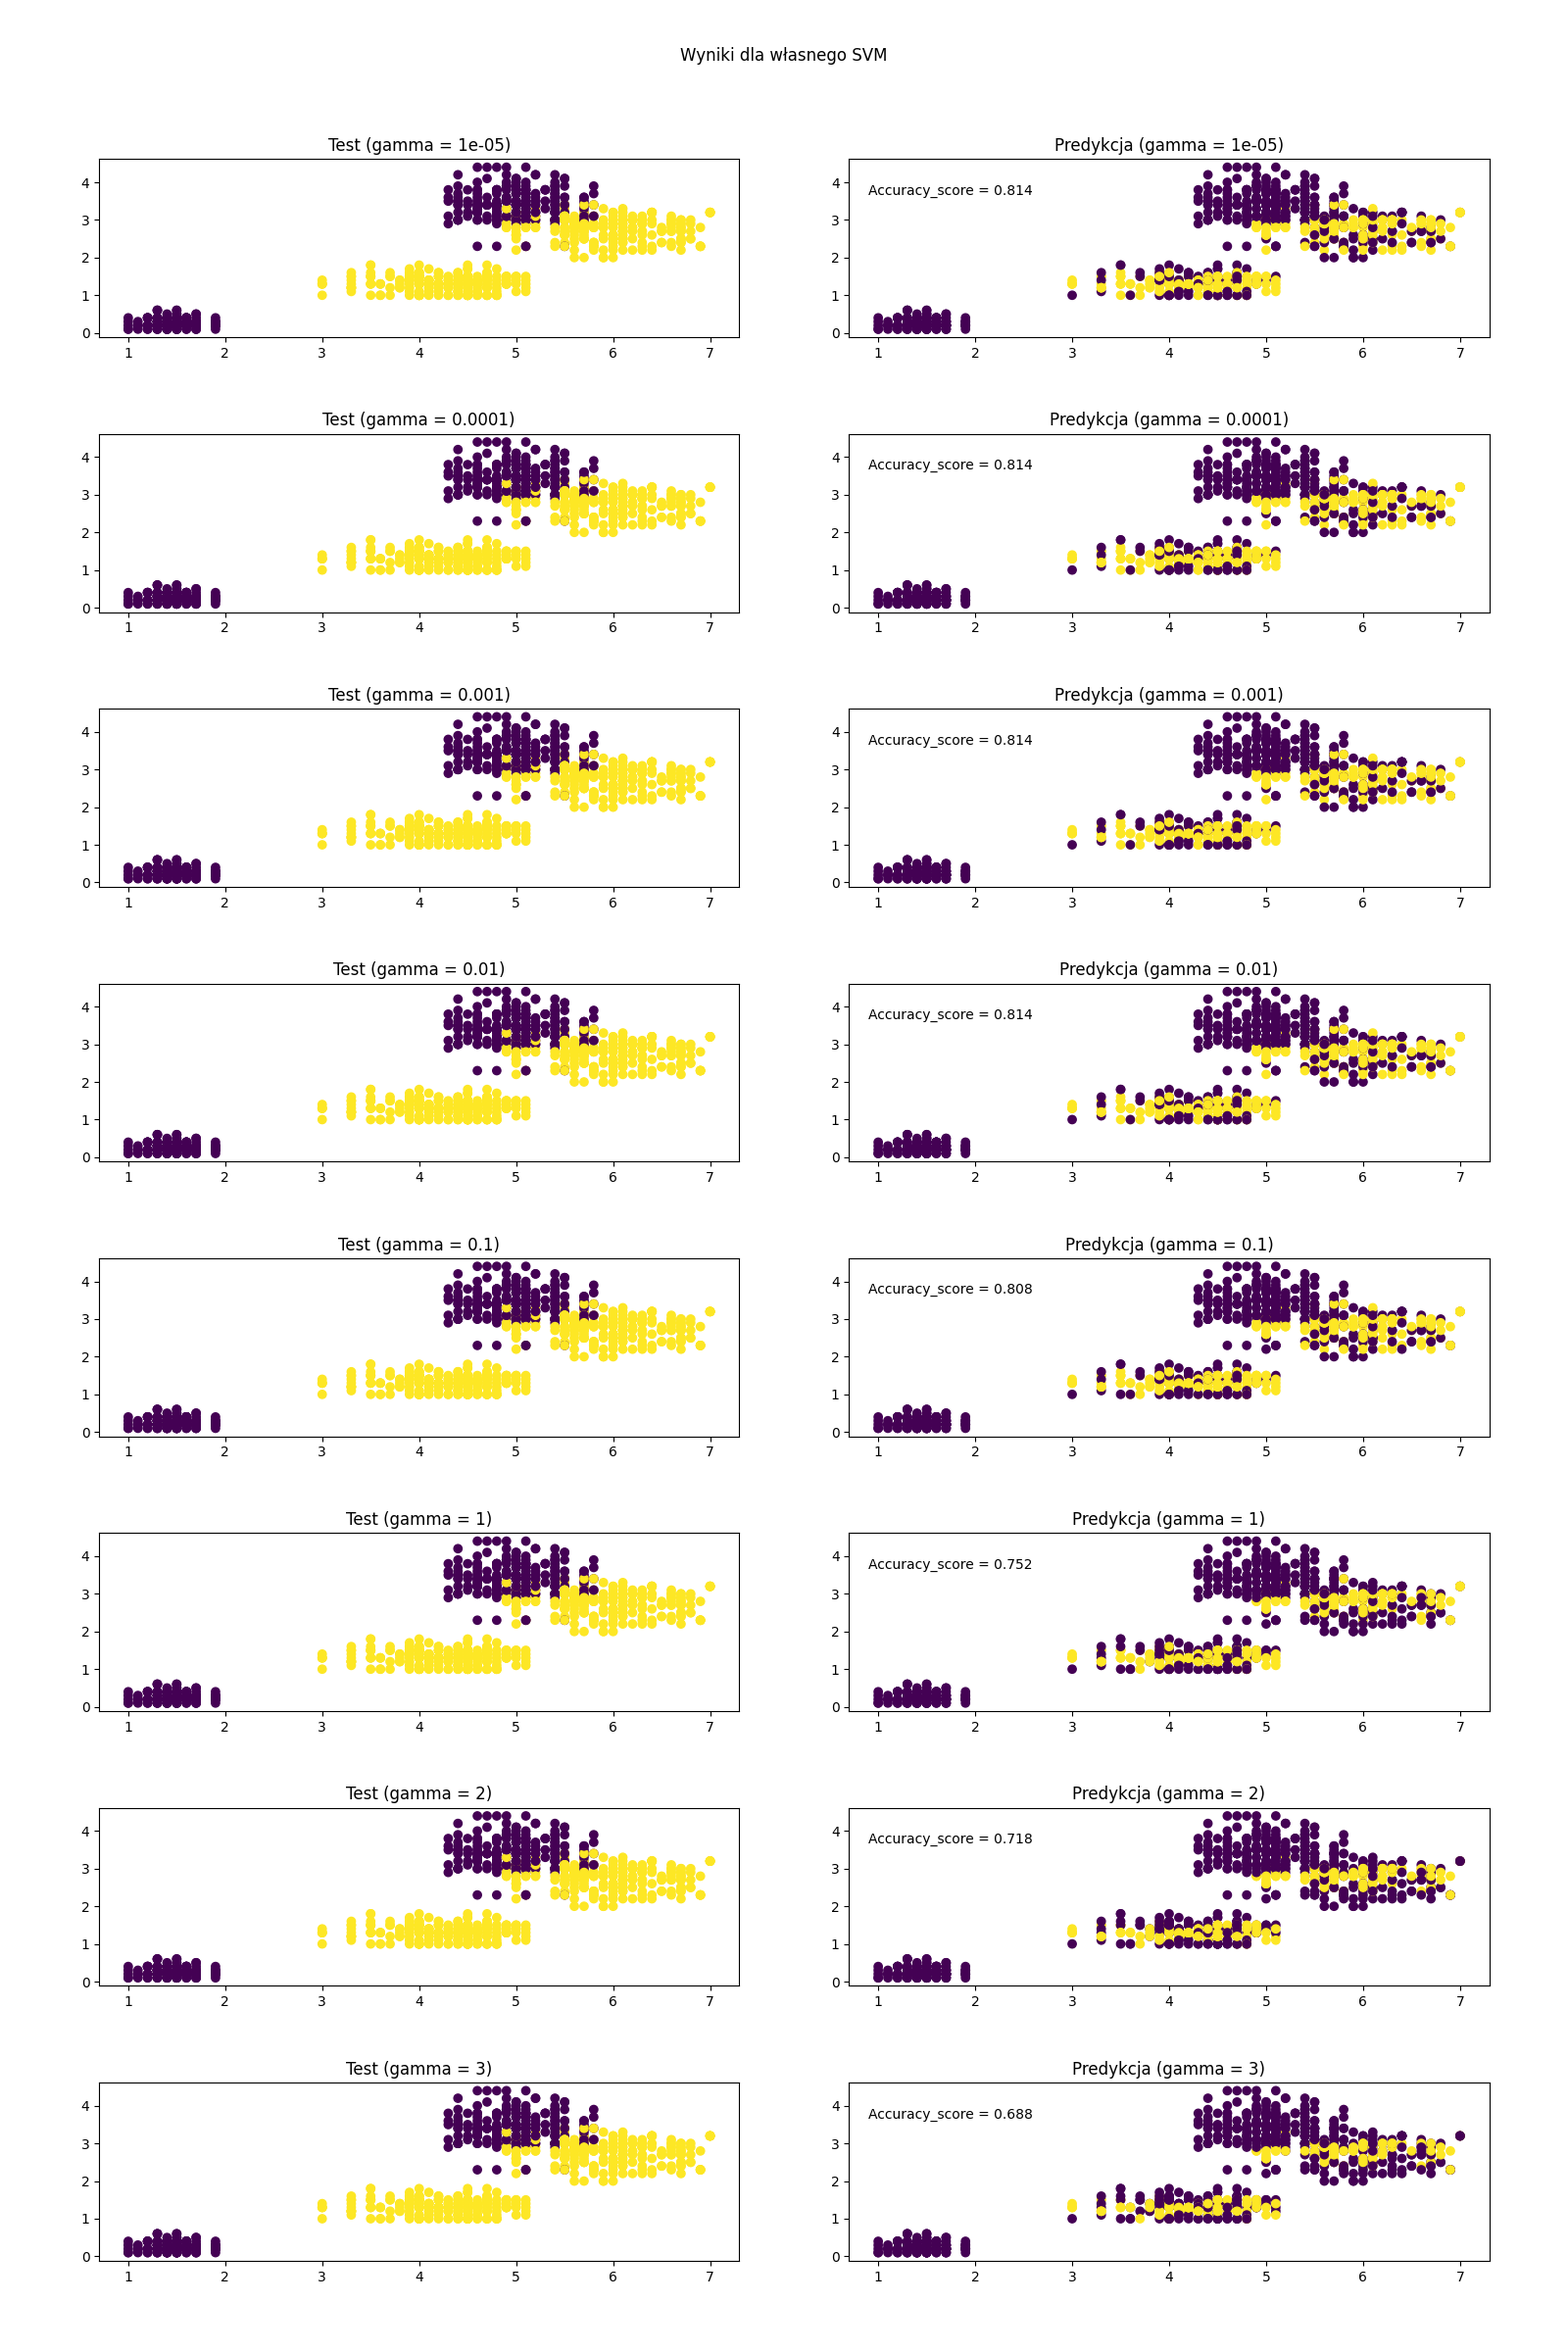
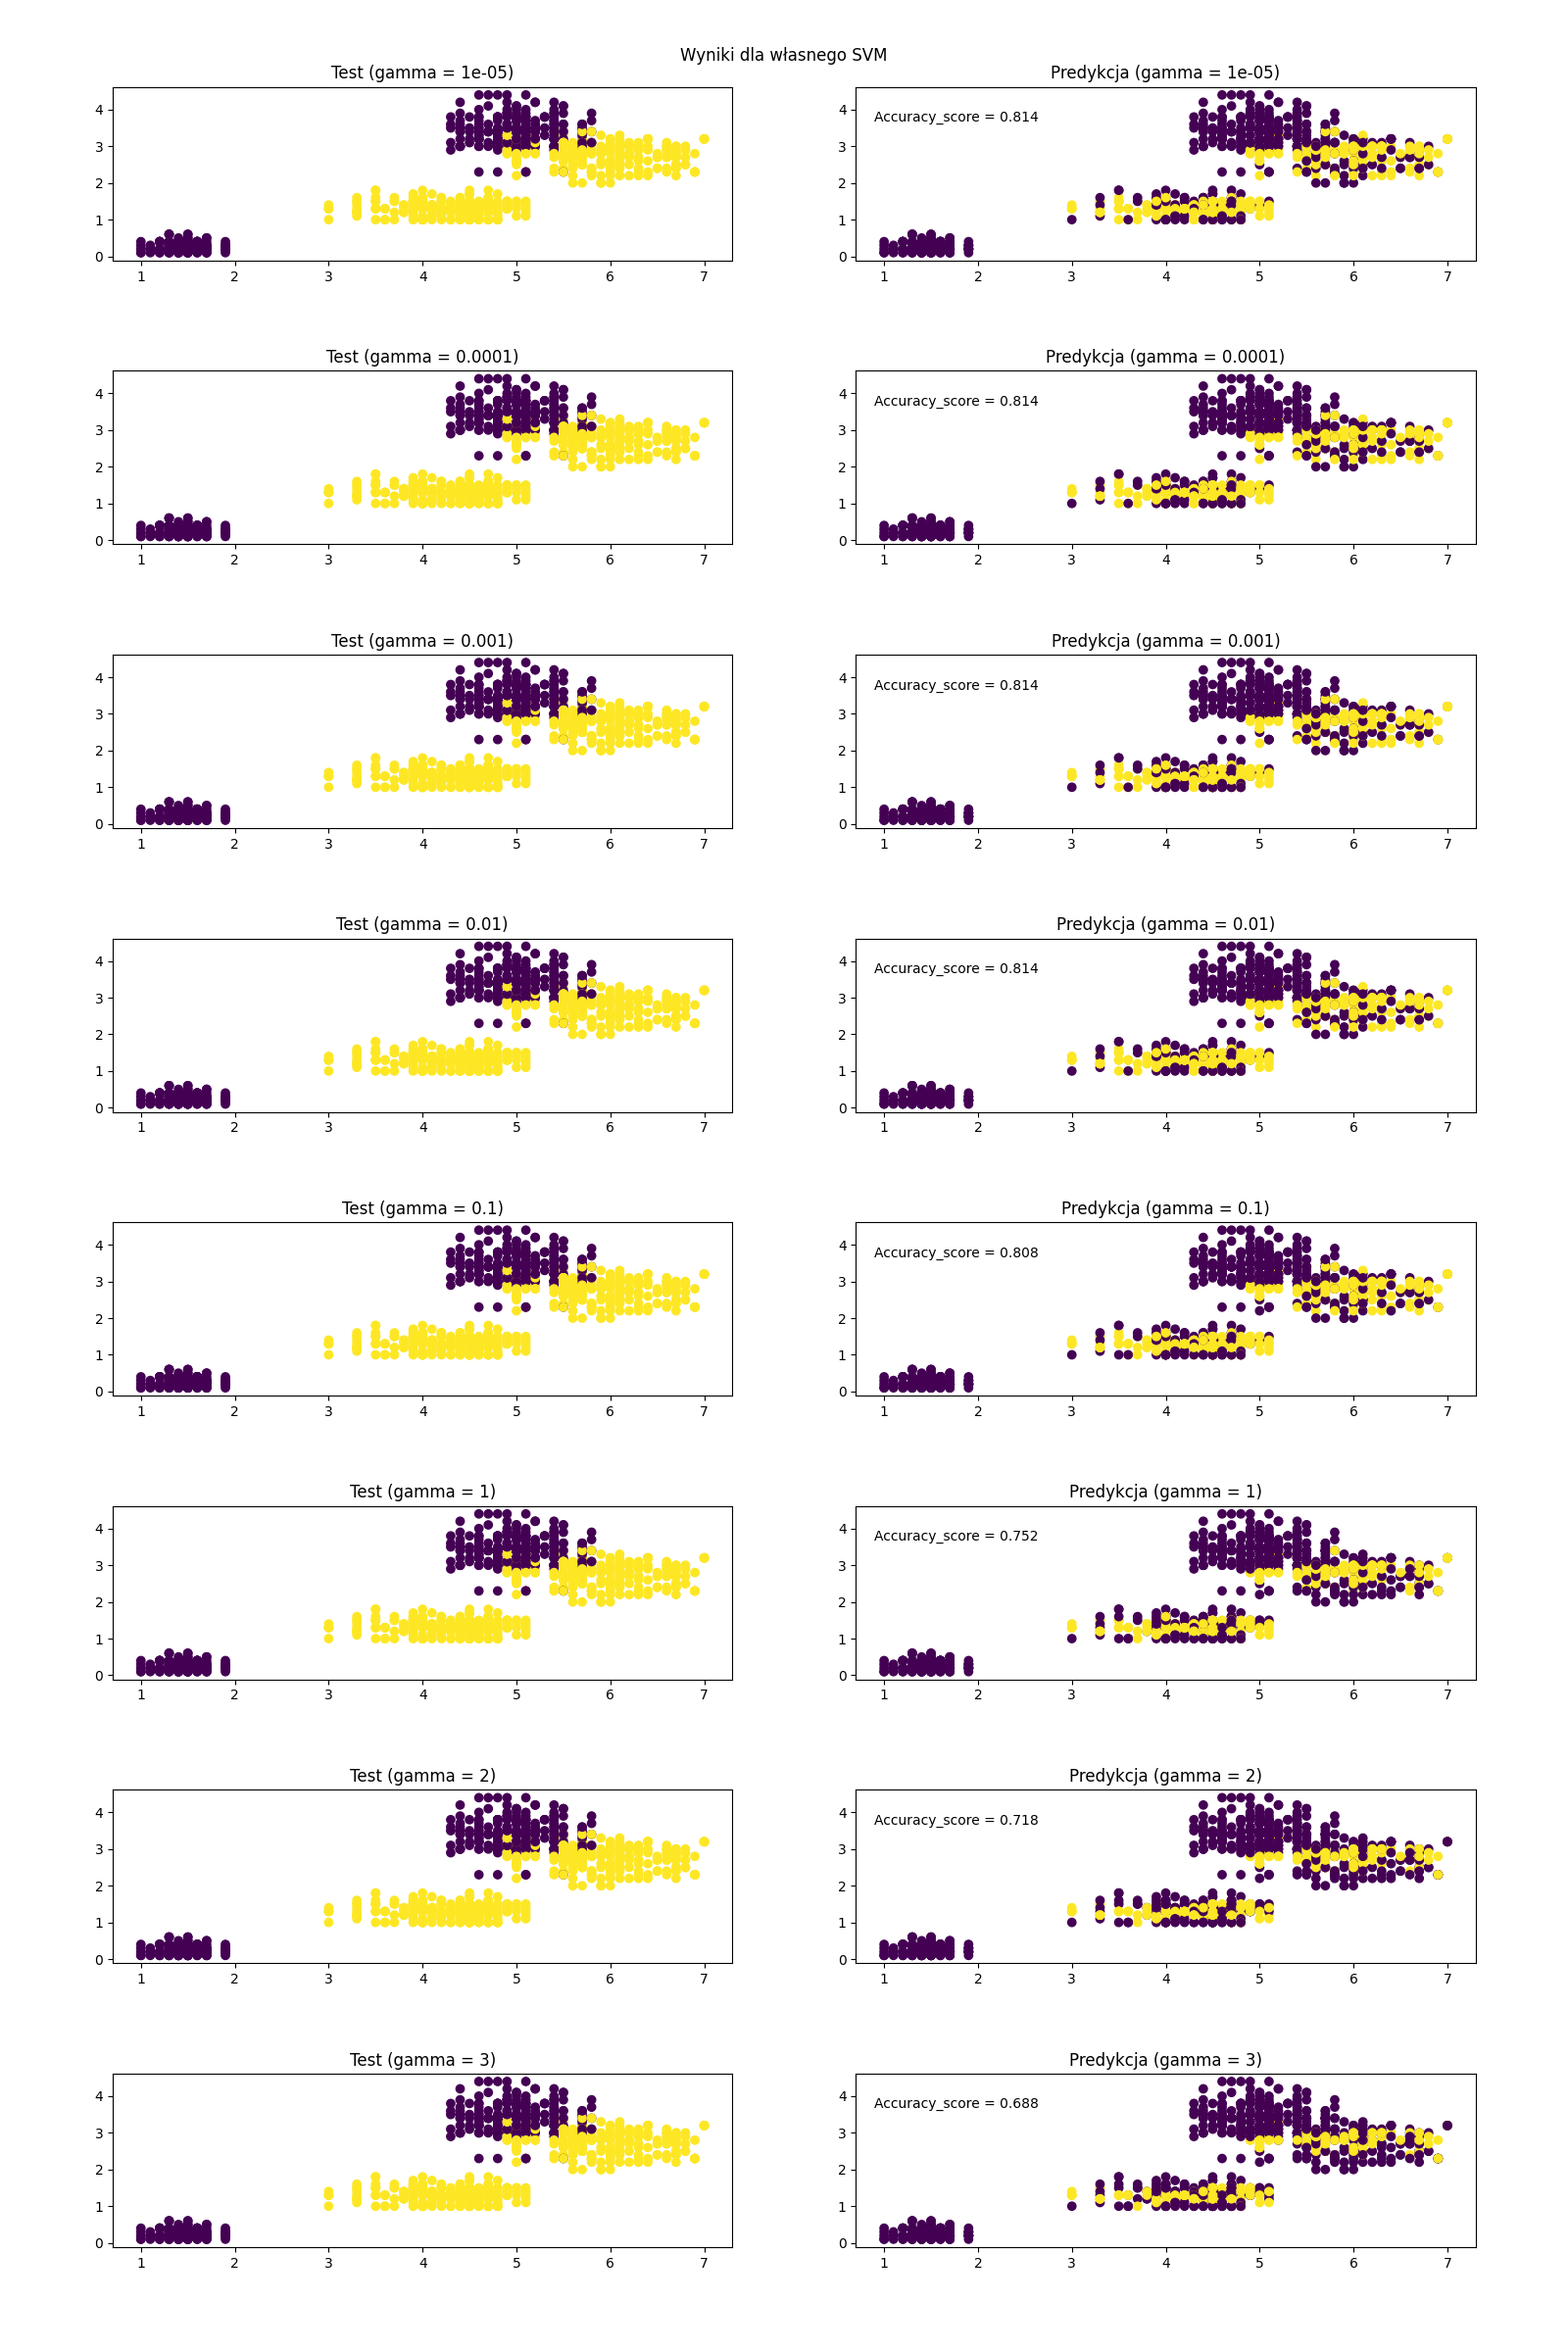
Testowanie modelu na zbiorze irysów + walidacja + zapis wyników do pliku

diff --git a/main.py b/main.py
@@ -104,8 +104,9 @@ wynikiWlasny = np.zeros(shape=[len(gammas), rskf.get_n_splits()])
 wynikiSklearn = np.zeros(shape=[len(gammas), rskf.get_n_splits()])
 
 fig, ax = plt.subplots(len(gammas), 2, figsize=(len(gammas)*2, len(gammas)*3))
+fig.tight_layout(pad=6)
 fig.suptitle("Wyniki dla własnego SVM")
-fig.tight_layout(pad=5)
+
 
 # Wyniki accuracy dla różnych gamma, dla własnego SVM i OneClassSVM
 
@@ -134,7 +135,7 @@ for i,gamma in enumerate(gammas):
         clf = OneClassSVM(kernel='rbf', gamma=gamma)
         clf.fit(X[train_index])
         y_pred = clf.predict(X[test_index])
-        wynikiSklearn[i, j] = accuracy_score(y[test_index], y_pred)
+        wynikiSklearn[i, j] = 1-accuracy_score(y[test_index], y_pred)
 
 plt.savefig("Wykres.png")
 plt.close()
@@ -273,3 +274,6 @@ with open(plik, 'w') as pliczek:
 # print("y_pred",y_pred)
 # print("accuracy: ",accuracy)
 
+
+#t-sne
+#pca
